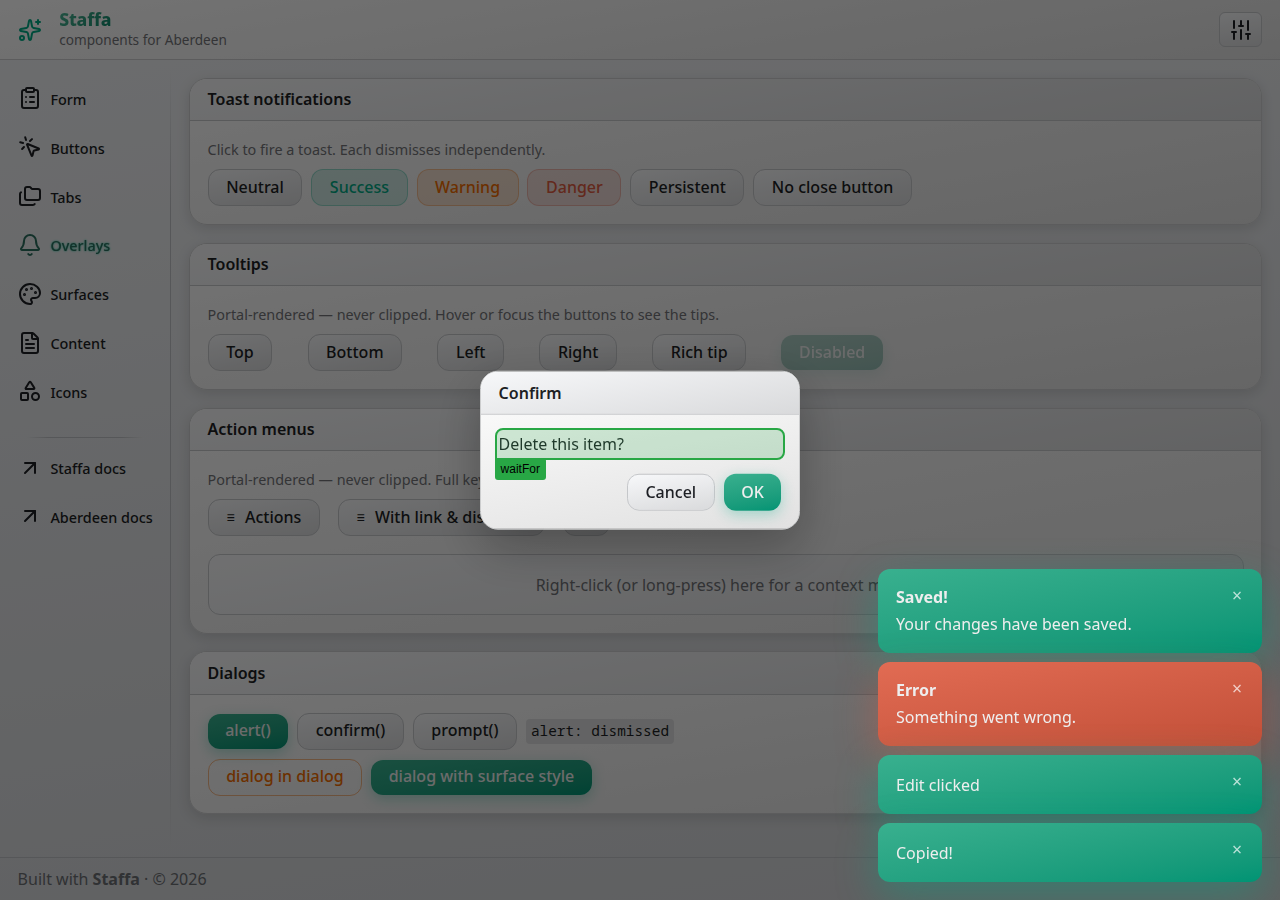
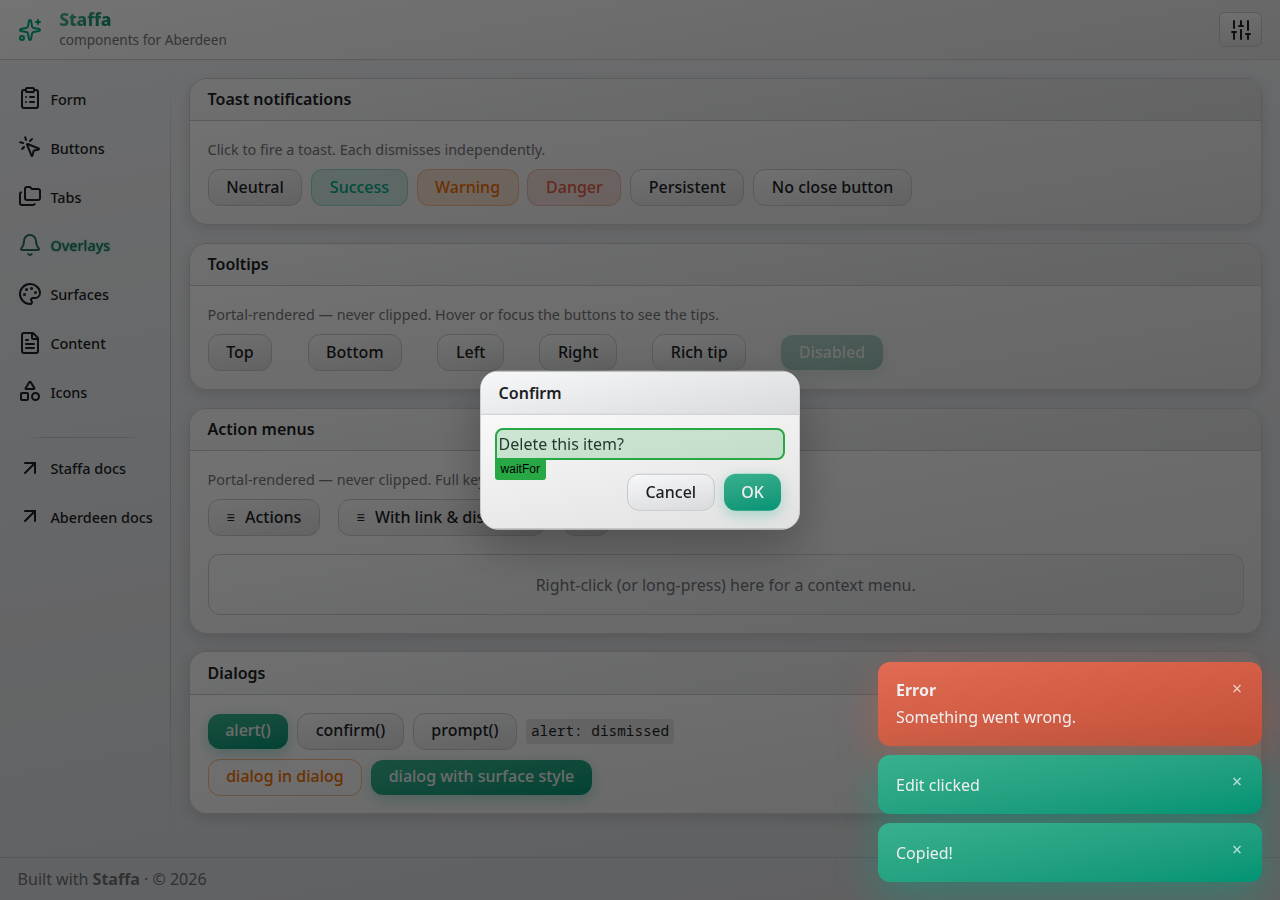
Added body paddings back, with S.main subtracting them

Changed region(s): [[0.6875, 0.6222, 1.0, 0.7467]]

diff --git a/src/theme.ts b/src/theme.ts
@@ -139,7 +139,7 @@ A.insertGlobalCss({
 	// What follows is a lightweight CSS reset. Semantic HTML should keep working, but less ugly/with some reasonable defaults.
 	"*, *::before, *::after": "box-sizing:border-box",
 	html: "text-size-adjust:100%",
-	body: "m:0 line-height:1.5 font-family: system-ui, -apple-system, 'Segoe UI', Roboto, sans-serif; -webkit-font-smoothing:antialiased background-color:$s-bg text:$s-text",
+	body: "m:0 p:$3 line-height:1.5 font-family: system-ui, -apple-system, 'Segoe UI', Roboto, sans-serif; -webkit-font-smoothing:antialiased background-color:$s-bg text:$s-text",
 	// Links resolve to the contextual link foreground: the link colour on nesting
 	// surfaces, the ink on accent surfaces.
 	a: "color: $s-link-fg; text-decoration:underline text-underline-offset:2px; transition: color 0.12s, filter 0.12s;",

diff --git a/src/components/main.ts b/src/components/main.ts
@@ -53,6 +53,10 @@ A.insertGlobalCss({
 	".s-main": {
 		// container-type so @container queries below can respond to shell width.
 		"&": "display:flex flex-direction:column min-height:100vh max-height:100vh container-type:inline-size",
+		// <body> carries a default $3 padding; when the shell is a direct child of it,
+		// cancel that padding with matching negative margins so the chrome still spans
+		// edge to edge (and the 100vh sizing stays exact).
+		"body > &": "margin: calc(-1 * $3)",
 		// Header/footer stretch their background the full shell width; their inner
 		// `.s-bar` caps to maxWidth and centres, so chrome aligns with the content.
 		// The top bar is a full-width `.neutral` surface; cancel its surface border and
